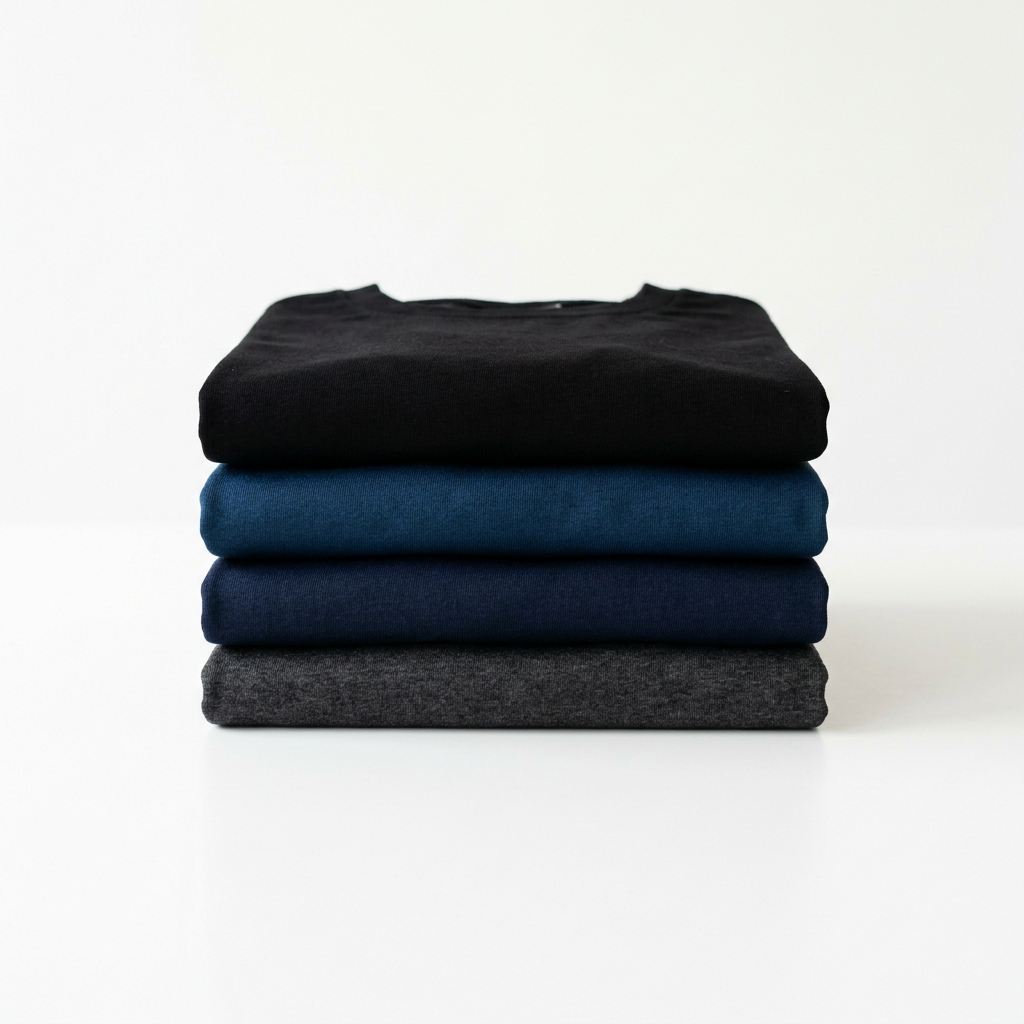
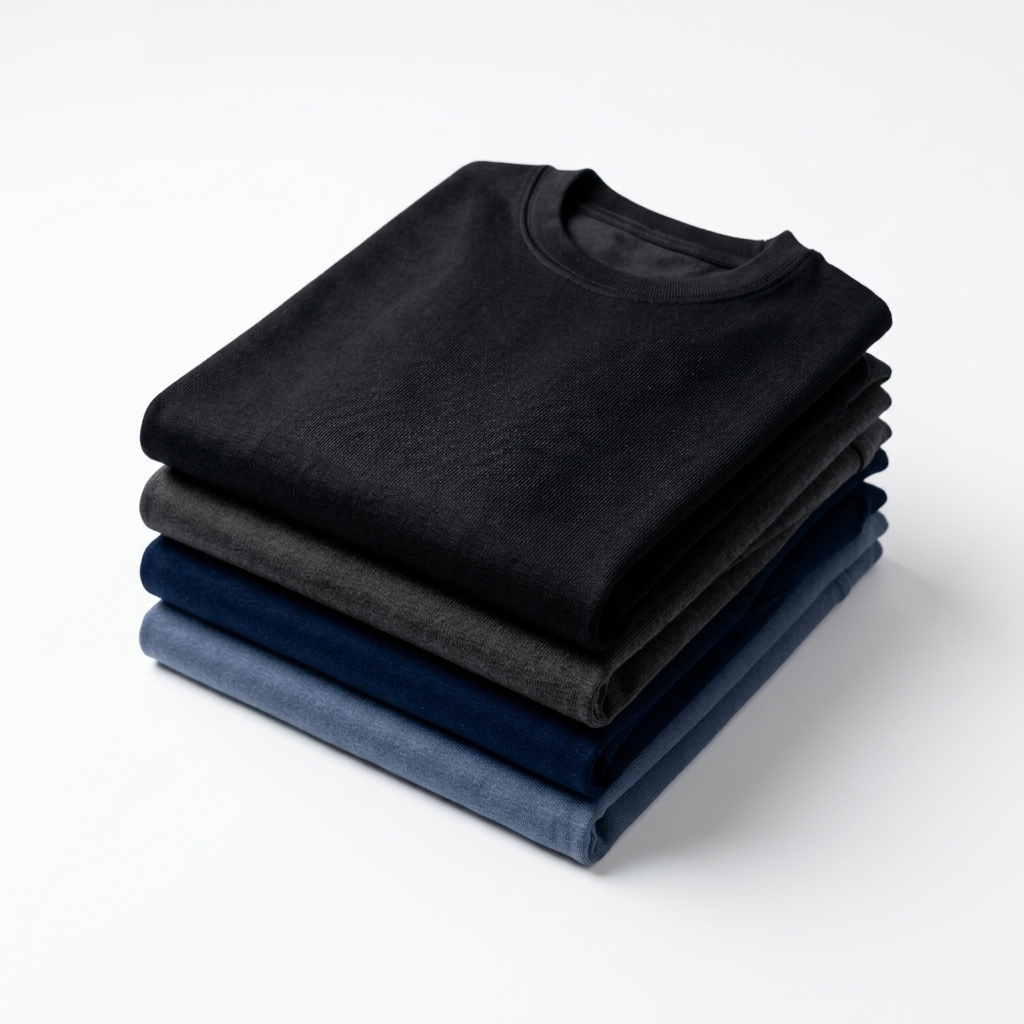
UX fix

diff --git a/7toSeven-main/frontend/src/components/HeroSection.jsx b/7toSeven-main/frontend/src/components/HeroSection.jsx
@@ -9,19 +9,26 @@ export default function HeroSection() {
   
   useEffect(() => setMounted(true), []);
 
-  // Compute actual theme
-  const currentTheme = theme === 'system' ? systemTheme : theme;
-  const heroImageSrc = mounted && currentTheme === 'light' ? "/hero-image-light.jpg" : "/hero-image.jpg";
-
   return (
     <section data-testid="hero-section" className="relative w-full min-h-[100dvh] flex flex-col justify-end pt-32 bg-white dark:bg-black transition-colors duration-500">
-      {/* Background Image */}
-      <div className="absolute inset-0">
+      {/* Background Image Container */}
+      <div className="absolute inset-0 overflow-hidden">
+        {/* Dark Mode Background */}
         <img
-          src={heroImageSrc}
-          alt="7toSEVEN Drop 001"
-          className="w-full h-full object-cover object-center transition-opacity duration-1000"
+          src="/hero-image.jpg"
+          alt="7toSEVEN Drop 001 - Dark Mode"
+          fetchPriority="high"
+          className="absolute inset-0 w-full h-full object-cover object-center opacity-0 dark:opacity-100 transition-opacity duration-1000"
         />
+        {/* Light Mode Background */}
+        <img
+          src="/hero-image-light.jpg"
+          alt="7toSEVEN Drop 001 - Light Mode"
+          fetchPriority="high"
+          className="absolute inset-0 w-full h-full object-cover object-center opacity-100 dark:opacity-0 transition-opacity duration-1000"
+        />
+        
+        {/* Gradients */}
         <div className="absolute inset-0 bg-white/20 dark:bg-black/50 transition-colors duration-500" />
         <div className="absolute inset-0 bg-gradient-to-t from-[#F9F9F9] via-[#F9F9F9]/40 to-transparent dark:from-[#0A0A0A] dark:via-[#0A0A0A]/20 transition-colors duration-500" />
         <div className="absolute inset-0 bg-gradient-to-r from-[#F9F9F9]/90 via-[#F9F9F9]/20 to-transparent dark:from-[#0A0A0A]/80 dark:via-transparent transition-colors duration-500" />

diff --git a/7toSeven-main/frontend/index.html b/7toSeven-main/frontend/index.html
@@ -8,6 +8,11 @@
         <link rel="preconnect" href="https://fonts.googleapis.com" />
         <link rel="preconnect" href="https://fonts.gstatic.com" crossorigin />
         <link href="https://fonts.googleapis.com/css2?family=Anton&family=Inter:wght@600&display=swap" rel="stylesheet" />
+        
+        <!-- Preload Hero Images for instant loading -->
+        <link rel="preload" as="image" href="/hero-image.jpg" />
+        <link rel="preload" as="image" href="/hero-image-light.jpg" />
+        
         <!--
         manifest.json provides metadata used when your web app is installed on a
         user's mobile device or desktop. See https://developers.google.com/web/fundamentals/web-app-manifest/
